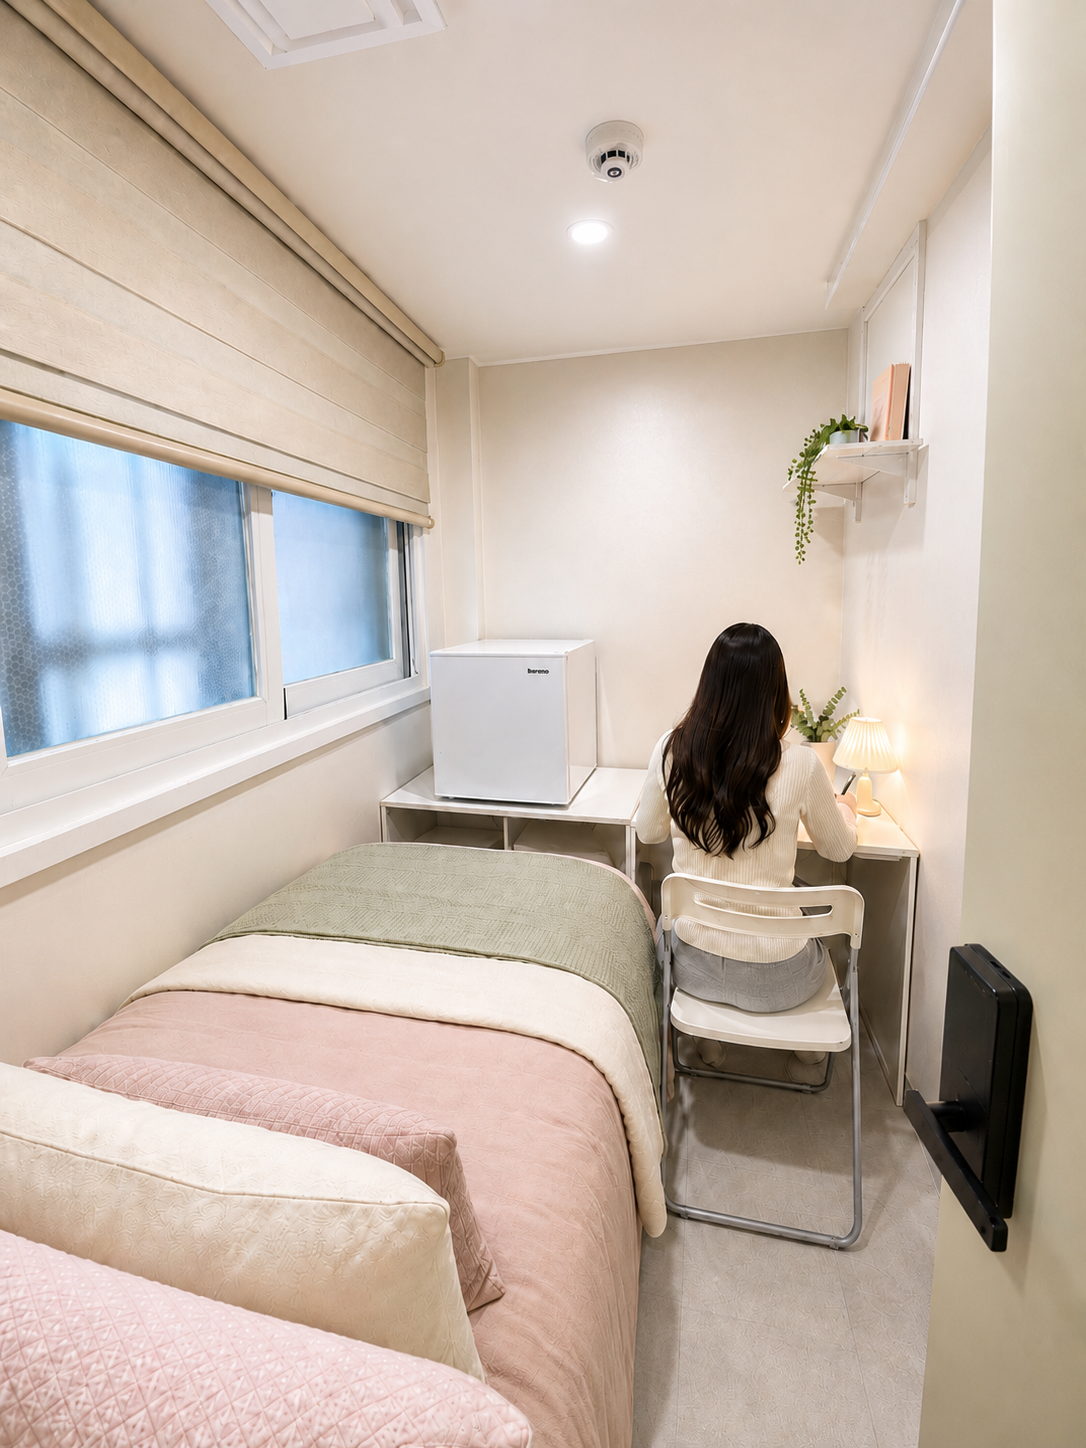
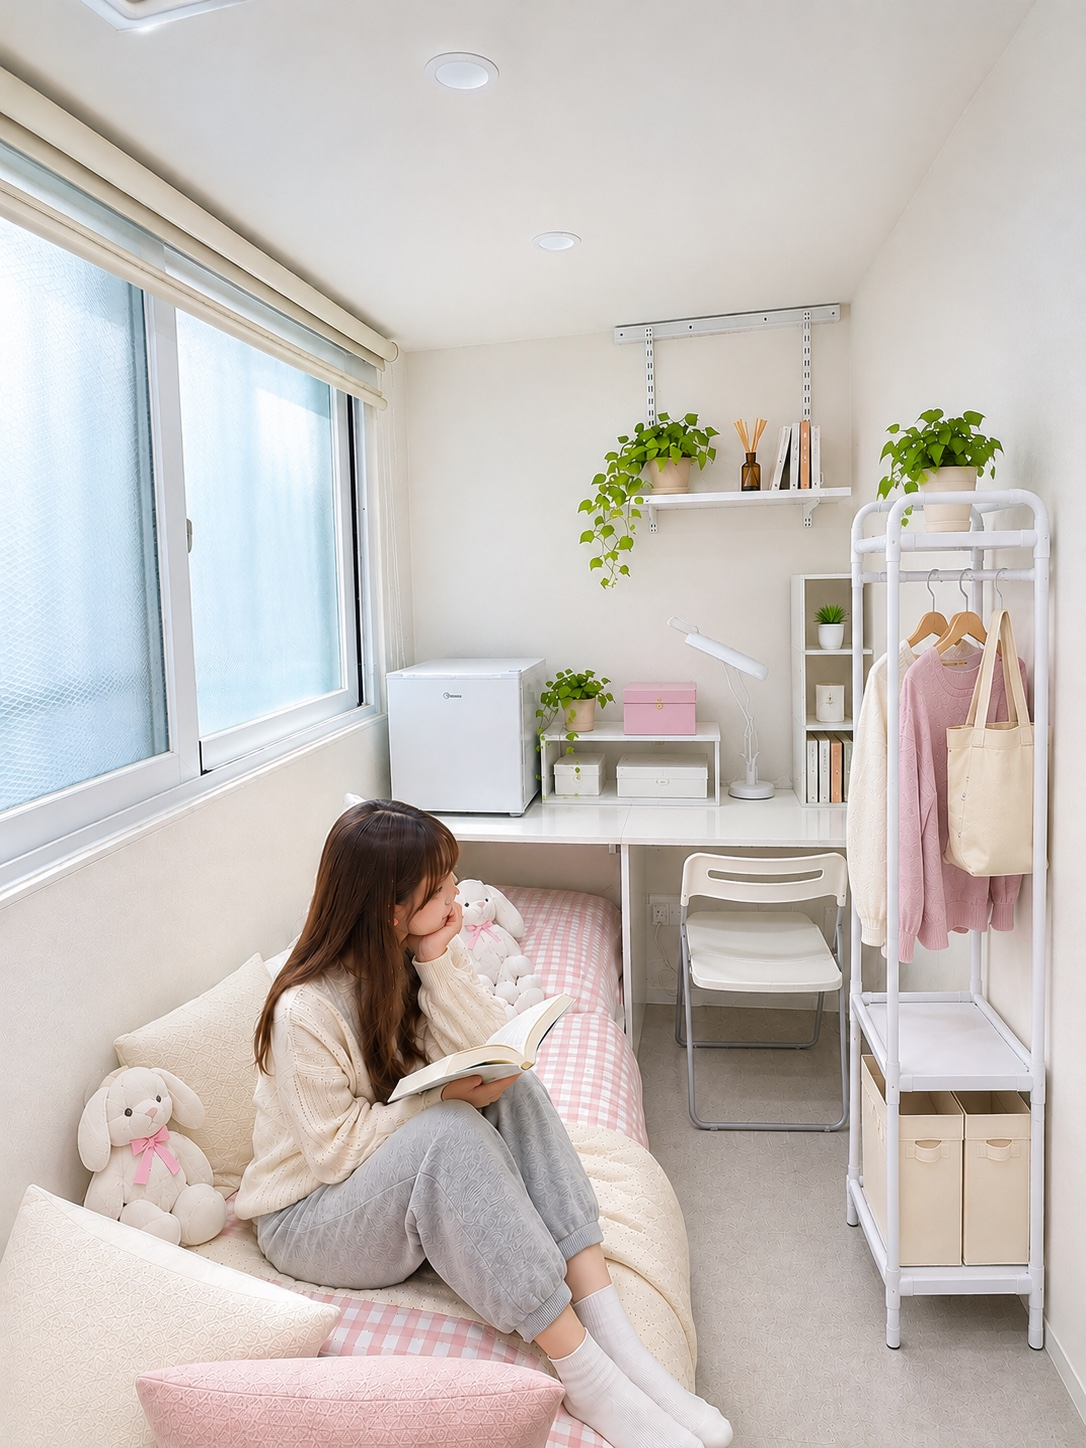
Add files via upload

diff --git a/rooms.html b/rooms.html
@@ -39,6 +39,23 @@
 .room-title-row h3{margin:0;flex:1 1 auto}
 .room-title-row .detail-return{display:inline-flex;align-items:center;white-space:nowrap;font-size:13px}
 @media(max-width:600px){.room-detail-list>.room-detail-card:not(:first-child){margin-top:26px;padding-top:26px}.room-title-row{align-items:center}.room-title-row .detail-return{font-size:12px}}
+
+/* 디럭스룸 3개 객실 사진 갤러리 */
+.deluxe-photo-gallery{overflow:visible!important}
+.deluxe-main-photo{display:block;position:relative;width:100%;padding:0;border:0;background:transparent;cursor:zoom-in;text-align:left}
+.deluxe-main-photo img{display:block;width:100%;height:auto;border-radius:12px}
+.deluxe-photo-hint{position:absolute;right:12px;bottom:12px;padding:7px 11px;border-radius:20px;background:rgba(15,30,25,.78);color:white;font-size:12px}
+.deluxe-photo-thumbnails{display:grid;grid-template-columns:repeat(3,minmax(0,1fr));gap:10px;margin-top:12px}
+.deluxe-photo-thumbnails button{min-width:0;border:2px solid #e0e6e2;border-radius:10px;background:#fff;padding:5px;cursor:pointer;color:#35513f;font-weight:600}
+.deluxe-photo-thumbnails button.is-selected{border-color:#43865c;background:#f0f7f2}
+.deluxe-photo-thumbnails img{width:100%;height:100px;object-fit:cover;object-position:center;display:block;border-radius:6px}
+.deluxe-photo-thumbnails span{display:block;padding:6px 2px 3px;font-size:12px}
+.deluxe-gallery-note{font-size:13px;line-height:1.6;color:#65746a;margin:10px 0 0}
+.deluxe-lightbox{border:0;padding:0;background:transparent;max-width:min(94vw,980px);max-height:95vh;overflow:visible}
+.deluxe-lightbox::backdrop{background:rgba(0,0,0,.82)}
+.deluxe-lightbox img{display:block;max-width:94vw;max-height:85vh;object-fit:contain;border-radius:8px}
+.deluxe-lightbox-close{position:absolute;top:-38px;right:0;background:#fff;border:0;border-radius:20px;padding:7px 14px;cursor:pointer;font-weight:700}
+@media(max-width:600px){.deluxe-photo-thumbnails{gap:6px}.deluxe-photo-thumbnails img{height:76px}.deluxe-photo-thumbnails span{font-size:11px}.deluxe-photo-hint{font-size:11px}}
 </style>
 </head>
 <body>
@@ -119,7 +136,15 @@
 </div>
 </article>
 <article class="room-detail-card" id="deluxe">
-<div class="room-detail-media"><img alt="디럭스룸 사진" src="room-deluxe.png"/></div>
+<div class="room-detail-media deluxe-photo-gallery">
+  <button type="button" class="deluxe-main-photo" onclick="openDeluxePhoto()" aria-label="디럭스룸 사진 크게 보기"><img id="deluxe-featured-photo" alt="디럭스룸 - 큰 창문이 있는 객실" src="room-deluxe.png"/><span class="deluxe-photo-hint">사진을 누르면 크게 볼 수 있어요 ⤢</span></button>
+  <div class="deluxe-photo-thumbnails" aria-label="디럭스룸 객실별 사진 선택">
+    <button type="button" class="is-selected" onclick="selectDeluxePhoto(0,this)" aria-label="큰 창문 디럭스룸 사진 보기" aria-pressed="true"><img src="room-deluxe.png" alt="큰 창문 객실" loading="lazy"/><span>큰 창문 · 대표</span></button>
+    <button type="button" onclick="selectDeluxePhoto(1,this)" aria-label="디럭스룸 다른 구조 사진 보기" aria-pressed="false"><img src="room-deluxe-view2.jpg" alt="다른 창문 구조 객실" loading="lazy"/><span>다른 구조 ①</span></button>
+    <button type="button" onclick="selectDeluxePhoto(2,this)" aria-label="디럭스룸 세 번째 사진 보기" aria-pressed="false"><img src="room-deluxe-view3.jpg" alt="또 다른 창문 구조 객실" loading="lazy"/><span>다른 구조 ②</span></button>
+  </div>
+  <p class="deluxe-gallery-note">※ 디럭스룸은 호실에 따라 창문 크기와 내부 구조가 조금씩 다릅니다. 사진을 선택해 비교해 보세요.</p>
+</div>
 <div class="room-detail-body">
 
 <div class="room-detail-head"><div class="room-title-row"><h3>디럭스룸 <span style="display:inline-block;vertical-align:middle;margin-left:7px;padding:4px 9px;border-radius:999px;background:#eef4ef;color:#35674a;font-size:0.55em;font-weight:600;line-height:1.4;">컴팩트룸 1실 별도 운영</span> <button aria-controls="deluxe-compact-preview" aria-expanded="false" onclick="var el=document.getElementById('deluxe-compact-preview');var expanded=el.hidden;el.hidden=!expanded;this.setAttribute('aria-expanded',String(expanded));this.textContent=expanded?'사진 닫기':'컴팩트룸 구경하기';" style="vertical-align:middle;margin-left:7px;padding:5px 11px;border:1px solid #b8cbbd;border-radius:18px;background:white;color:#35674a;font-size:13px;font-weight:700;cursor:pointer;" type="button">컴팩트룸 구경하기</button></h3><a class="detail-return" href="availability.html#room-details">공실현황 바로가기 →</a></div>
@@ -239,6 +264,20 @@
 </script>
 <script>
   document.write('<script src="site-updates.js?v=' + window.__STAY_CACHE_V + '"><\/script>');
+</script>
+
+<dialog class="deluxe-lightbox" id="deluxe-lightbox" onclick="if(event.target===this)this.close()"><button type="button" class="deluxe-lightbox-close" onclick="document.getElementById('deluxe-lightbox').close()">닫기 ✕</button><img id="deluxe-lightbox-image" alt="디럭스룸 확대 사진"/></dialog>
+<script>
+(function(){
+  var photos=['room-deluxe.png','room-deluxe-view2.jpg','room-deluxe-view3.jpg'];
+  var labels=['큰 창문 디럭스룸','다른 구조 디럭스룸 ①','다른 구조 디럭스룸 ②'];
+  window.selectDeluxePhoto=function(index,button){
+    var photo=document.getElementById('deluxe-featured-photo');
+    photo.src=photos[index]; photo.alt=labels[index];
+    document.querySelectorAll('.deluxe-photo-thumbnails button').forEach(function(b){var active=b===button;b.classList.toggle('is-selected',active);b.setAttribute('aria-pressed',String(active));});
+  };
+  window.openDeluxePhoto=function(){var dialog=document.getElementById('deluxe-lightbox');document.getElementById('deluxe-lightbox-image').src=document.getElementById('deluxe-featured-photo').src;dialog.showModal();};
+})();
 </script>
 </body>
 </html>
